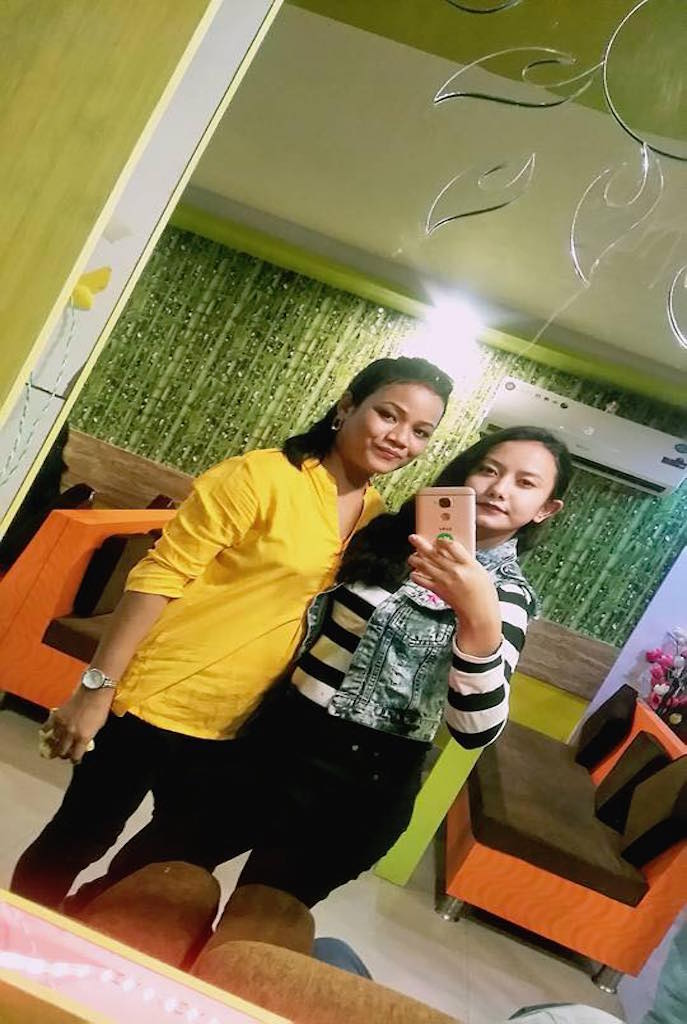
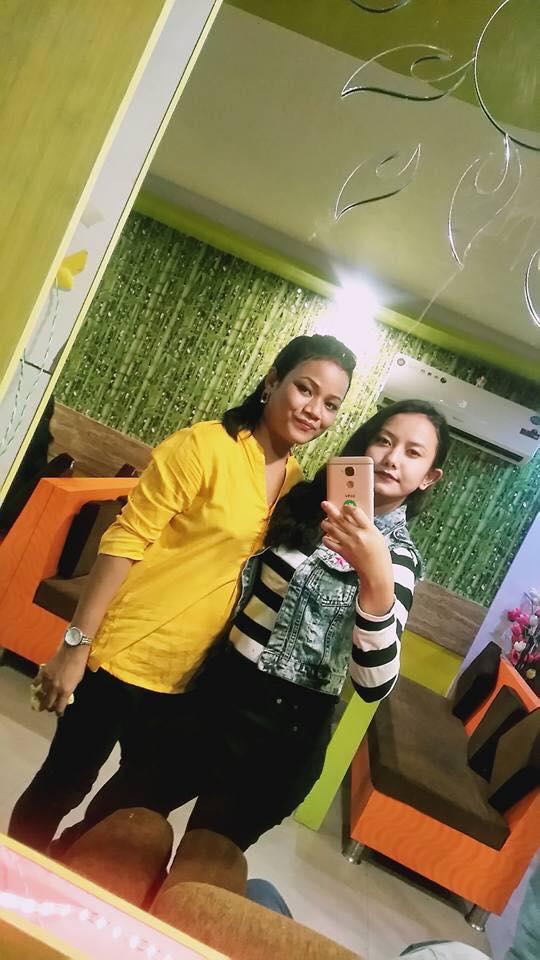
photos_size_increased

diff --git a/index.html b/index.html
@@ -240,7 +240,7 @@
             function ScaleSlider() {
                 var refSize = jssor_1_slider.$Elmt.parentNode.clientWidth;
                 if (refSize) {
-                    refSize = Math.min(refSize, 600);
+                    refSize = Math.min(refSize, 1000);
                     jssor_1_slider.$ScaleWidth(refSize);
                 }
                 else {
